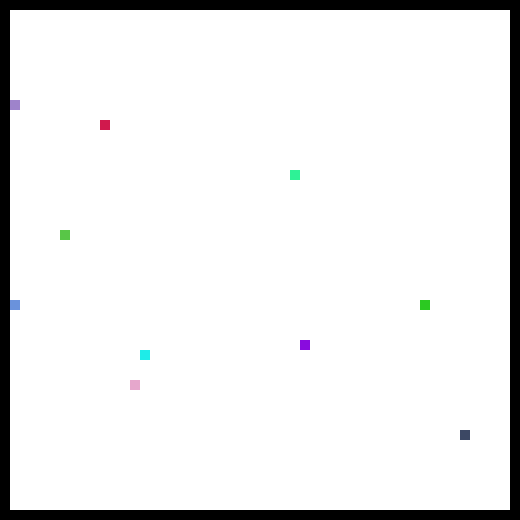
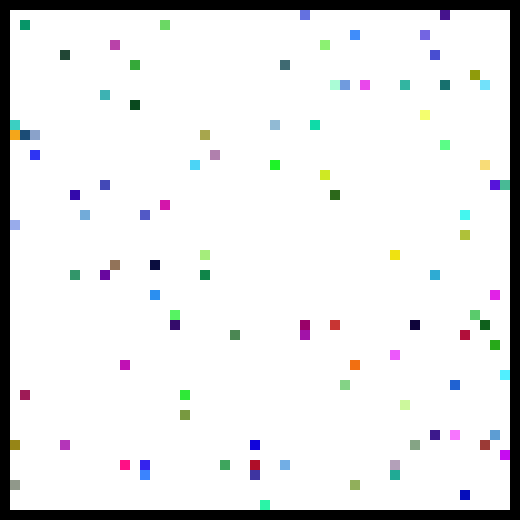
feature: random beasts!

diff --git a/src/main.rs b/src/main.rs
@@ -9,7 +9,7 @@ use crate::world_iteration::WorldIteration;
 const WORLD_WIDTH: u32 = 50;
 const WORLD_HEIGHT: u32 = 50;
 const GENE_LENGTH: usize = 8;
-const CREATURE_POPULATION: usize = 10;
+const CREATURE_POPULATION: usize = 100;
 const IMAGE_SCALE: u32 = 10;
 
 fn main() {
